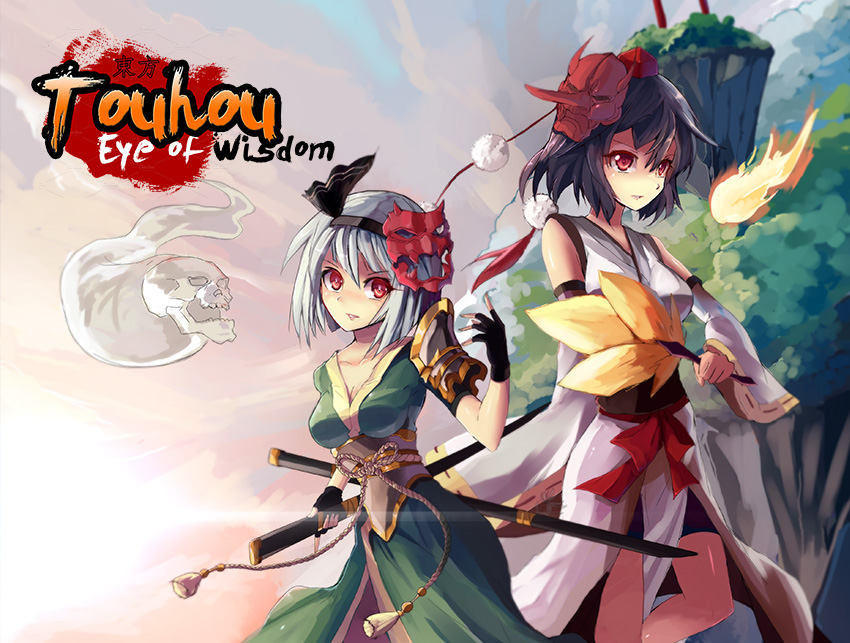
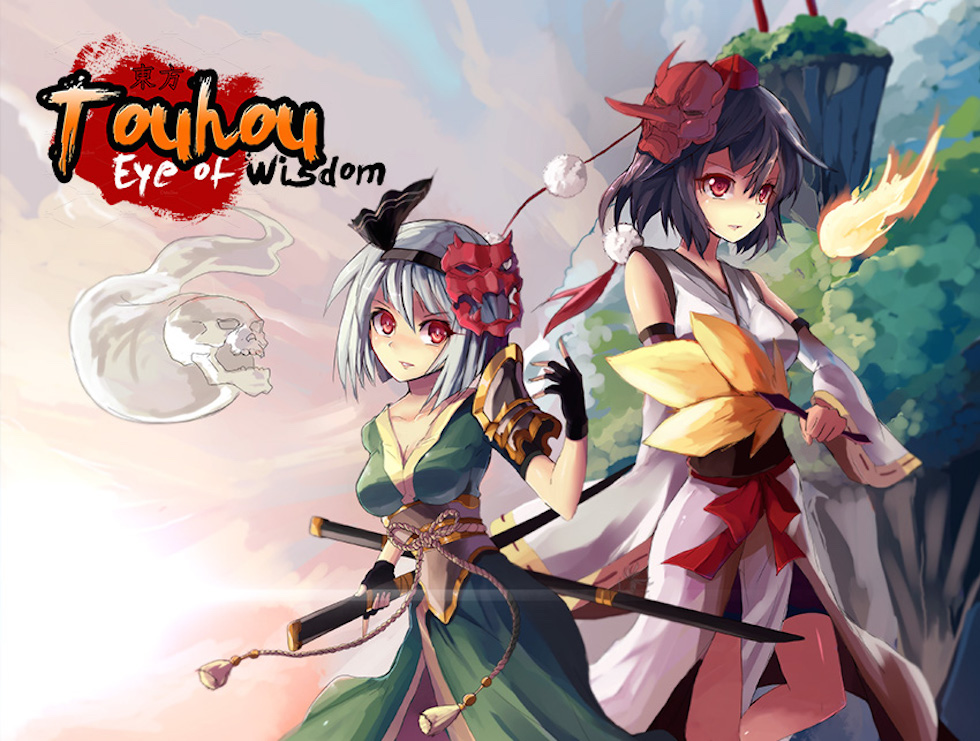
add key events

diff --git a/app/controllers/home_controller.js b/app/controllers/home_controller.js
@@ -1,20 +1,50 @@
 define([], function(){
   
   function HomeController($root, $scope, $location, $timeout){
+    var menu, activeMenu;
+    
     $root.pageclass = 'home';
-    $root.keyEvents = {};
+    $root.keyEvents = {
+      'META+13': /* enter */ function(){
+        win.toggleFullscreen();
+      },
+      '38': /* UP */ function(){
+        menu.trigger('menu:up');
+      },
+      '40': /* UP */ function(){
+        menu.trigger('menu:down');
+      },
+    };
     
     $scope.reveal();
     
     $timeout(function(){
-      $('.main-menu a').on('click', $scope.poi);
-          
+      menu = $('.main-menu');
+      $('a', menu).on('click', $scope.poi);
+      menu.bind('menu:up', function(){
+        activeMenu = $('li.active', this);
+        var prevMenu = activeMenu.prev();
+        if(prevMenu.get(0)){
+          activeMenu.removeClass('active');
+          prevMenu.addClass('active');
+        }
+      }).bind('menu:down', function(){
+        activeMenu = $('li.active', this);
+        var nextMenu = activeMenu.next();
+        if(nextMenu.get(0)){
+          activeMenu.removeClass('active');
+          nextMenu.addClass('active');
+        }
+      });
       $scope.soundtrackSetting({
         active: $scope.randomTrack(),
         autoNext: true, 
         loop: false
       });
+      
     }, 0);
+    
+    win.showDevTools();
   }
   
   HomeController.$inject = ['$rootScope','$scope', '$location', '$timeout'];

diff --git a/app/directives/screen.js b/app/directives/screen.js
@@ -6,10 +6,27 @@ define([], function(){
       return elem;
     };
     var bindKeyEvents = function(elem){
-      elem.on('keyup', function(e){
+      var modifierKey = "", actualKey = "", func = null;
+      
+      elem.on('keydown', function(e){
         if( $root.keyEvents['*'] ){
           $root.keyEvents['*'].call();
         }
+        if (e.ctrlKey) modifierKey = "CTRL+"
+        if (e.shiftKey) modifierKey = "SHIFT+"
+        if (e.altKey) modifierKey = "ALT+"
+        if (e.metaKey) modifierKey = "META+"
+        
+        actualKey = String.fromCharCode(e.keyCode);
+        func = $root.keyEvents[modifierKey+actualKey];
+        if(!func){
+          func = $root.keyEvents[modifierKey+e.keyCode];
+        }
+        if(!func){
+          // console.log(modifierKey, e.keyCode)
+        }
+        
+        if(func) func(e);
       });
       // key events
       return elem;

diff --git a/app/assets/css/styles.css b/app/assets/css/styles.css
@@ -26,7 +26,7 @@ html, body {
   height: 100%;
   overflow-x: hidden;
   overflow-y: hidden;
-  background-size: cover !important;
+  background-size: 100% auto;
   background-repeat: no-repeat;
   background-color: black;
 }
@@ -108,7 +108,7 @@ ul.main-menu li {
   filter: progid:DXImageTransform.Microsoft.gradient( startColorstr='#7d7e7d', endColorstr='#0e0e0e',GradientType=0 ); /* IE6-9 */
   
   margin-bottom: 10px;
-  transition: right cubic-bezier(.17,.67,.83,.67) 200ms;
+  transition: right cubic-bezier(.17,.67,.83,.67) 100ms;
 }
 
 ul.main-menu li.active, ul.main-menu li:hover {

diff --git a/app/controllers/options_controller.js b/app/controllers/options_controller.js
@@ -1,0 +1,21 @@
+define([], function(){
+  
+  function OptionsController($root, $scope, $location, $timeout){
+    $root.pageclass = 'dashboard';
+    $root.keyEvents = {};
+    
+    $scope.reveal();
+    
+    $timeout(function(){
+      $scope.soundtrackSetting({
+        active: -1,
+        autoNext: false, 
+        loop: true
+      });
+    }, 0);
+    // win.showDevTools();
+  }
+  
+  OptionsController.$inject = ['$rootScope','$scope', '$location', '$timeout'];
+  return OptionsController;
+});
